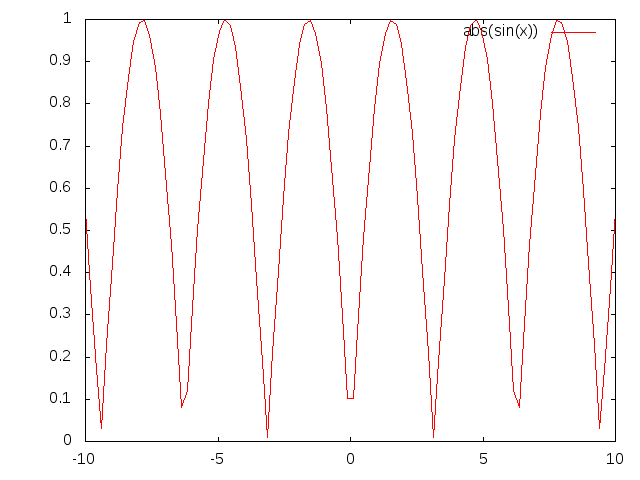
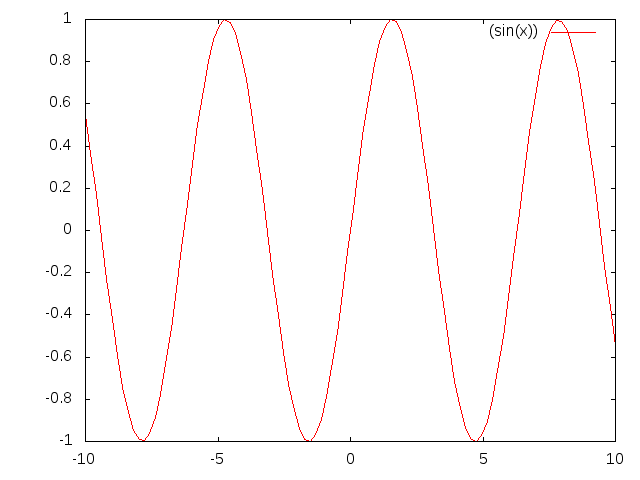
sin

diff --git a/c/pole/0.5.5-plot/gnuplot.c b/c/pole/0.5.5-plot/gnuplot.c
@@ -58,7 +58,8 @@ int main(int argc, char **argv)
 			, h[j], hdot[j], theta[j], thetadot[j], force[j]);
 	}
 
-        fprintf(gp, "plot abs(sin(x))\n");
+        //fprintf(gp, "plot abs(sin(x))\n");
+        fprintf(gp, "plot (sin(x))\n");
         //fprintf(gp, "rep abs(cos(x))\n");
 
         fclose(gp);
